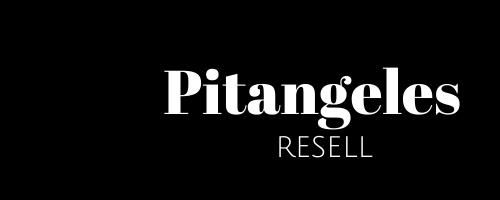
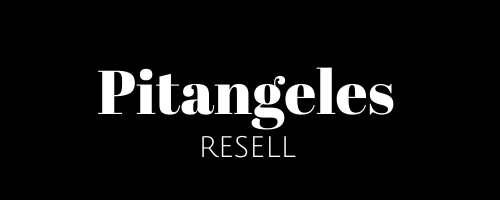
Initial commit

Changed region(s): [[0.18, 0.33, 0.93, 0.81]]

diff --git a/css/mobile.css b/css/mobile.css
@@ -9,13 +9,14 @@
 }
 
 #main-nav ul,
-#main-nav .logo {
+#main-nav img {
   justify-self: center;
 }
 
-#main-nav .logo {
-  margin-left: 60px;
-  width: rem;
+#main-nav img {
+  margin: auto;
+  display: block;
+  width: auto;
 }
 
 #main-nav ul li a {
